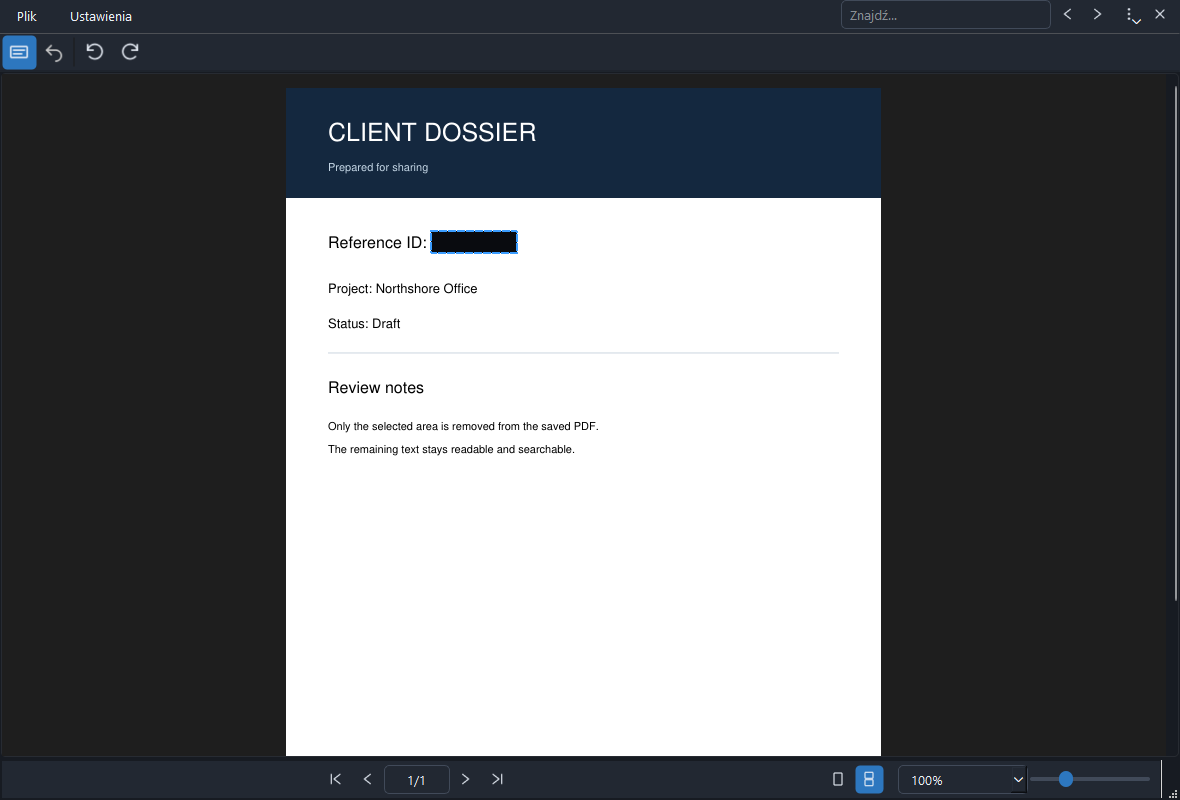
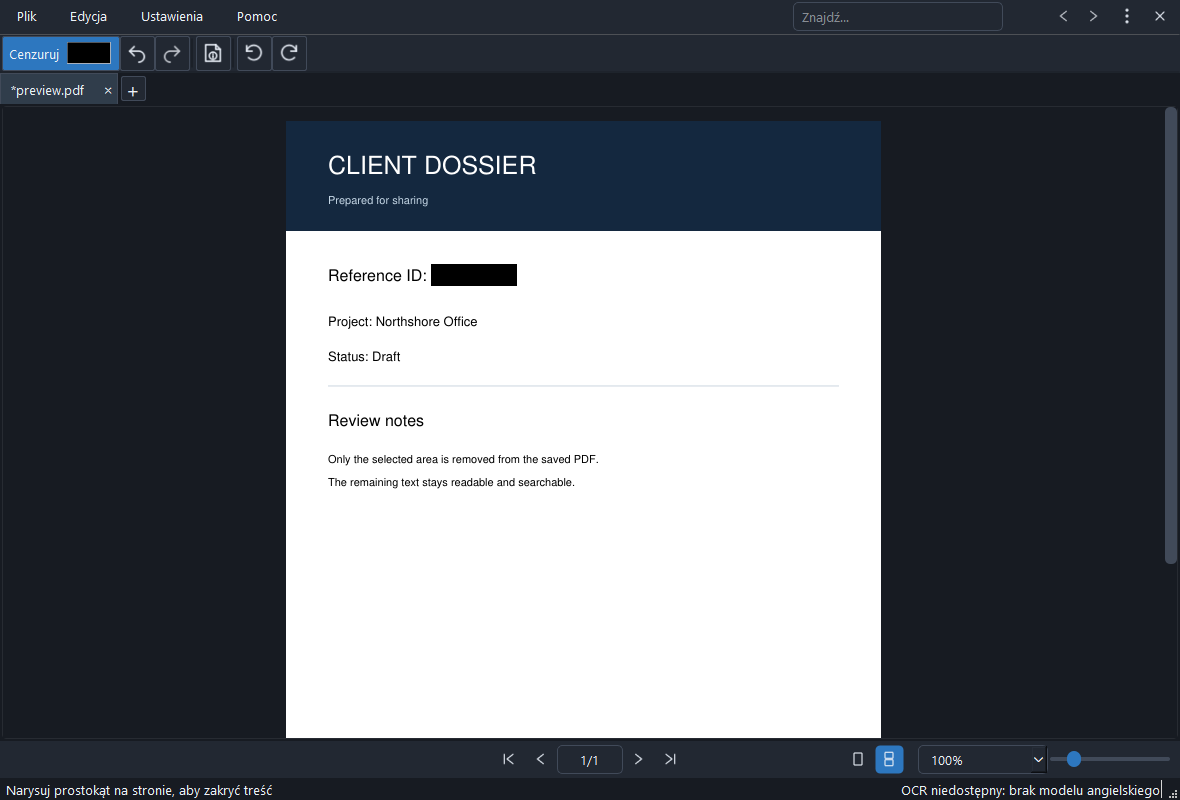
chore: prepare 1.0.1 release candidate

diff --git a/scripts/capture_preview.py b/scripts/capture_preview.py
@@ -1,18 +1,20 @@
-"""Create a reproducible README screenshot from a generated sample PDF."""
+"""Capture the current UI using a synthetic PDF and project-local settings."""
 
 from pathlib import Path
+import sys
+from unittest.mock import patch
 
 import pymupdf
-from PySide6.QtWidgets import QApplication
+from PySide6.QtCore import QSettings, Qt
+from PySide6.QtWidgets import QApplication, QStyleFactory
 
-from blurout_pdf.window import MainWindow
+PROJECT = Path(__file__).resolve().parents[1]
+sys.path.insert(0, str(PROJECT / "src"))
+
+from blurout_pdf import __version__, search, window as window_module
 
 
-def main() -> None:
-    output = Path("docs/assets/ui-preview.png")
-    output.parent.mkdir(parents=True, exist_ok=True)
-    sample = Path("build/preview.pdf")
-    sample.parent.mkdir(parents=True, exist_ok=True)
+def create_sample(sample: Path) -> None:
     with pymupdf.open() as pdf:
         page = pdf.new_page(width=595, height=842)
         page.draw_rect(pymupdf.Rect(0, 0, 595, 110), color=None, fill=(0.08, 0.16, 0.25))
@@ -27,21 +29,69 @@ def main() -> None:
         page.insert_text((42, 365), "The remaining text stays readable and searchable.", fontsize=11)
         pdf.save(sample)
 
+
+def save_capture(widget, output: Path) -> None:
+    """Keep published image dimensions stable across display scaling settings."""
+    image = widget.grab().toImage()
+    image = image.scaled(widget.size(), Qt.AspectRatioMode.IgnoreAspectRatio,
+                         Qt.TransformationMode.SmoothTransformation)
+    if not image.save(str(output)):
+        raise RuntimeError(f"Could not save {output}")
+
+
+def main() -> None:
+    output = PROJECT / "docs/assets"
+    output.mkdir(parents=True, exist_ok=True)
+    work = PROJECT / "build/readme-preview"
+    work.mkdir(parents=True, exist_ok=True)
+    sample = work / "preview.pdf"
+    create_sample(sample)
+    settings_directory = work / "settings"
+    settings_directory.mkdir(parents=True, exist_ok=True)
+    for scope in (QSettings.Scope.UserScope, QSettings.Scope.SystemScope):
+        QSettings.setPath(QSettings.Format.IniFormat, scope, str(settings_directory))
+
+    def preview_settings(organization: str, application: str) -> QSettings:
+        # The two-string constructor always uses NativeFormat on Windows.
+        settings = QSettings(QSettings.Format.IniFormat, QSettings.Scope.UserScope,
+                             organization, application)
+        assert settings.format() == QSettings.Format.IniFormat
+        assert Path(settings.fileName()).resolve().is_relative_to(settings_directory)
+        return settings
+
+    settings = preview_settings("BlurOut PDF", "BlurOut PDF")
+    settings.clear()
+    for key, value in (("language", "pl"), ("appearance", "dark"),
+                       ("redaction_style", "black"), ("ocr_language", "eng")):
+        settings.setValue(key, value)
+    settings.sync()
+    legacy_settings = preview_settings("Rectveil", "Rectveil")
+    legacy_settings.clear()
+    legacy_settings.sync()
+
     app = QApplication([])
-    window = MainWindow(str(sample))
-    window.language = "pl"
-    window._translate_ui()
-    window._set_zoom(1.0)
-    secret = window.document.page(0).search_for("QZ-4819-73")[0]
-    window.document.add_redaction(0, window.document.page_to_display(0, secret), "black")
-    window.redact_action.setChecked(True)
-    window.viewer.canvases[0].update()
-    window.resize(1180, 800)
-    window.show()
-    app.processEvents()
-    window.grab().save(str(output))
-    window.document.redactions.clear()
-    window.close()
+    app.setApplicationName("BlurOut PDF")
+    app.setApplicationVersion(__version__)
+    app.setOrganizationName("BlurOut PDF")
+    app.setStyle("windows11" if "windows11" in QStyleFactory.keys() else "Fusion")
+    # Reproduce the documented missing-OCR state without probing external model folders.
+    with patch.object(window_module, "QSettings", side_effect=preview_settings), \
+            patch.object(search, "_tessdata_directory", return_value=None), \
+            patch.object(window_module, "_tessdata_directory", return_value=None):
+        window = window_module.MainWindow(str(sample))
+        try:
+            window._set_zoom(1.0)
+            secret = window.document.page(0).search_for("QZ-4819-73")[0]
+            window._add_redaction(0, window.document.page_to_display(0, secret))
+            window.redact_action.setChecked(True)
+            window.resize(1180, 800)
+            window.show()
+            app.processEvents()
+            save_capture(window, output / "ui-preview.png")
+        finally:
+            window.document.redactions.clear()
+            window.close()
+    print(f"Captured BlurOut PDF {__version__} in {output.relative_to(PROJECT)}")
 
 
 if __name__ == "__main__":

diff --git a/src/blurout_pdf/_version.py b/src/blurout_pdf/_version.py
@@ -1,3 +1,3 @@
 """Authoritative application version for source and release builds."""
 
-VERSION = "1.0.0"
+VERSION = "1.0.1"

diff --git a/docs/ISSUES.md b/docs/ISSUES.md
@@ -90,6 +90,8 @@ This is the editable checklist for preparing the first public release. Work thro
 
 **Progress record:** 2026-10-12. The owner reports that upgrading 0.9.0 to 1.0.0 preserved the chosen language, dark appearance and redaction style, kept one app entry in the same directory, and left samples untouched. Re-running the 1.0.0 installer showed the localized already-installed message; version 1.0.0, settings and the single app entry remained unchanged. A 0.9.0 installation showed the correct About version and project link, and all synthetic samples opened. Cancelling the 1.0.0 installer while 0.9.0 had a pending redaction closed setup while leaving the app and selection intact; closing the app then warned about unsaved changes. Downgrade refusal preserved the single app entry, version and settings. Uninstall removed the app entry and files and preserved external samples but left an empty install directory; Open with cleanup could not be checked because the app was absent from the menu before uninstall. Windows Open with integration was not available and is tracked in Issue 8. Installer language selection follows Windows UI language (English is the fallback) and is described in [the manual lifecycle results](INSTALLER_LIFECYCLE_TEST.md). Remaining uninstall cleanup and lifecycle checks still need results.
 
+**1.0.1 implementation:** Commit `e15c89f` adds removal of the install directory only when empty and a Windows CI install/uninstall probe. The probe pre-creates that directory to reproduce the observed condition and checks actual registration cleanup. CI and owner results for the new candidate are pending; the earlier 1.0.0 observations do not accept 1.0.1.
+
 ## Issue 5 — Unify and verify release builds
 
 - [ ] **Issue 5 complete**
@@ -110,7 +112,9 @@ This is the editable checklist for preparing the first public release. Work thro
 - The built package contains the required notices, icon and supported file integrations, but no OCR models or private fixtures.
 - The candidate installer and its checksum are retained together for the acceptance pass.
 
-**Progress record:** 2026-10-12. Commit `6a1e3be` unifies local and CI packaging, controls the Windows dependency versions, verifies the release payload and generates `SHA256.txt`. Local verification passed (48 tests passed, 1 skipped; installer payload and checksum verified). GitHub Actions run [38152420931](https://github.com/janmadrzyk/blur-out-pdf/actions/runs/38152420931) passed on `main` and retained the Windows installer artifact. Keep Issue 5 open until its declared dependency, Issue 4, is complete; then confirm the CI artifact is the candidate used for Issue 6.
+**Progress record:** 2026-10-12. Commit `6a1e3be` unified local and CI packaging for the earlier 1.0.0 candidate, controlled Windows dependency versions, verified its payload and generated `SHA256.txt`. Local verification passed (48 tests passed, 1 skipped), and GitHub Actions run [38152420931](https://github.com/janmadrzyk/blur-out-pdf/actions/runs/38152420931) passed on `main`. The current candidate is 1.0.1 and needs a fresh CI build, checksum and acceptance of that exact artifact after the Issue 4 fixes.
+
+**1.0.1 local check:** 2026-10-12. The full source suite passed (78 passed, 1 skipped). A local PyInstaller bundle built with executable file/product version 1.0.1; notice preparation and bundled Qt import checks passed. The installer and checksum still require the new CI build.
 
 ## Issue 6 — Accept the release candidate
 
@@ -133,7 +137,8 @@ This is the editable checklist for preparing the first public release. Work thro
 - The candidate is explicitly accepted for publication; its checksum is final.
 
 **Completion record:** _Commit / evidence / date to be added._
-## Issue 7 — Publish version 1.0.0 on GitHub
+
+## Issue 7 — Publish version 1.0.1 on GitHub
 
 - [ ] **Issue 7 complete**
 
@@ -142,17 +147,17 @@ This is the editable checklist for preparing the first public release. Work thro
 **Work:**
 
 1. Confirm the public repository has the audited files, license, README, screenshots and changelog.
-2. Tag the accepted commit `v1.0.0` and create a GitHub Release with concise release notes.
+2. Tag the accepted commit `v1.0.1` and create a GitHub Release with concise release notes.
 3. Attach the exact accepted installer and its SHA-256 checksum, then verify the public download and checksum.
 
 **Definition of Done:**
 
-- The `v1.0.0` tag points to the accepted source commit and the release assets match the tested checksum.
+- The `v1.0.1` tag points to the accepted source commit and the release assets match the tested checksum.
 - Public README, license, notices, screenshots and installation instructions render correctly.
 - The GitHub Release is accessible and its installer can be downloaded and verified against the published checksum.
 - This checkbox is marked complete only after publication succeeds and the release URL is recorded below.
 
-**Progress record:** 2026-10-12. The public source repository is available at [janmadrzyk/blur-out-pdf](https://github.com/janmadrzyk/blur-out-pdf), and the updated repository audit is recorded in `REPOSITORY_AUDIT.md`. No 1.0.0 release has been created. Tagging and release publication wait for Issue 6 acceptance and the owner's release approval.
+**Progress record:** 2026-10-12. The public source repository is available at [janmadrzyk/blur-out-pdf](https://github.com/janmadrzyk/blur-out-pdf), and the updated repository audit is recorded in `REPOSITORY_AUDIT.md`. The 1.0.0 candidate was not publicly released; 1.0.1 is the current target. Tagging and release publication wait for Issue 6 acceptance and the owner's release approval.
 
 ## Issue 8 — Restore Windows Open with integration
 
@@ -173,6 +178,8 @@ This is the editable checklist for preparing the first public release. Work thro
 
 **Completion record:** _Commit / evidence / date to be added._
 
+**Implementation progress:** 2026-10-12. Commit `93b282a` writes real named empty `REG_SZ` OpenWithProgids values for all eight supported extensions, adds the application display name and launch command, and strengthens release validation. Focused checks passed (27 passed); the full suite passed (78 passed, 1 skipped). Actual Windows registration and Explorer behavior remain to be checked on the 1.0.1 candidate.
+
 ## Issue 9 — Show the selection marquee in the file picker
 
 - [ ] **Issue 9 complete**
@@ -190,3 +197,5 @@ This is the editable checklist for preparing the first public release. Work thro
 - The behavior is manually checked on Windows.
 
 **Completion record:** _Commit / evidence / date to be added._
+
+**Implementation progress:** 2026-10-12. Commit `b03777a` makes the selection marquee visible in both file picker views. Native Windows rendering showed the rectangle in light and dark themes; UI checks passed (17 passed), and the full suite passed (78 passed, 1 skipped). Owner verification of the 1.0.1 candidate remains pending.

diff --git a/docs/INSTALLER_LIFECYCLE_TEST.md b/docs/INSTALLER_LIFECYCLE_TEST.md
@@ -1,16 +1,20 @@
 # Installer lifecycle check on a clean Windows machine
 
-The `packaging/build_lifecycle_fixtures.ps1` script builds a test-only `0.9.0` installer from the current source, alongside the real `1.0.0` candidate. `0.9.0` is a synthetic predecessor for checking installer behavior, not a historical release. The script prints a folder containing both installers, `SHA256.txt`, and synthetic `sample.pdf`, `sample.jpg`, `sample.jpeg`, `sample.png`, `sample.tif`, `sample.tiff`, `sample.bmp`, and `sample.webp`. Never publish the `TEST-ONLY` installer.
+The `packaging/build_lifecycle_fixtures.ps1` script builds test-only `0.9.0` and `1.0.0` installers from the current source, alongside the real candidate identified by `src/blurout_pdf/_version.py` (currently `1.0.1`). These are synthetic predecessors for checking installer behavior, not historical releases or copies of earlier candidate binaries. The script prints a folder containing all three installers, `SHA256.txt`, and synthetic `sample.pdf`, `sample.jpg`, `sample.jpeg`, `sample.png`, `sample.tif`, `sample.tiff`, `sample.bmp`, and `sample.webp`. Never publish the `TEST-ONLY` installers.
 
 The installer lists English first and Polish second in `packaging/windows.iss`. On a first install, it uses Inno Setup's default language detection, which follows the Windows UI language; if that language is unsupported, English is selected as the first listed language. A language selection dialog lets the user override the detected language. Thus Polish Windows selects Polish, while English or unsupported-language Windows selects English on first install. Inno Setup's default `UsePreviousLanguage=yes` setting means later runs may use the language selected during the previous installation. See [Inno Setup's language selection rules](https://jrsoftware.org/ishelp/topic_languagessection.htm) and [UsePreviousLanguage](https://jrsoftware.org/ishelp/topic_setup_usepreviouslanguage.htm).
 
-Run the following from the project root after building the 1.0.0 installer:
+Run the following from the project root after building the current candidate installer:
 
 ```powershell
 .\packaging\build_lifecycle_fixtures.ps1 -InnoCompiler (Join-Path $env:LOCALAPPDATA "Programs\Inno Setup 6\ISCC.exe")
 ```
 
 Copy the files from the printed `installers` folder to a clean Windows VM or snapshot. Use the same Windows user throughout. Check the SHA-256 values before testing. Record the Windows version, VM snapshot, installer hashes, date, and the results below. A real user document is unnecessary.
+
+## Earlier 1.0.0 candidate results
+
+These observations apply to the previous candidate. They do not accept the new 1.0.1 artifact.
 
 | Path | Steps | Expected result | Result |
 | --- | --- | --- | --- |
@@ -26,3 +30,19 @@ The same-version and downgrade messages were not repeated interactively in both 
 Do not mark Issue 4 complete until all rows have recorded observations from the clean environment. Any failure needs a fix, a new installer build, and a repeat of the affected rows.
 
 Owner-reported results above are recorded separately from unverified expectations. The 0.9.0 app launch, About version/link, opening each sample, running-app cancellation, upgrade with preference preservation, the same-version message, and downgrade refusal with preserved version/preferences are confirmed. Uninstall removed the app entry and files but left an empty install directory; Open with cleanup could not be checked because the app was absent from the menu beforehand. Windows Open with integration failed and is tracked in Issue 8. Remaining lifecycle checks still need a result.
+
+## Current 1.0.1 candidate checks
+
+Use the exact CI-built `BlurOutPDF-Setup-1.0.1.exe` and verify its checksum before running these checks. Record the candidate commit, CI run, hash and clean Windows environment with the results. Test-only 1.0.0 fixtures exercise the version gate; also check upgrade from an actual earlier 1.0.0 candidate installation when one is available.
+
+| Path | Steps and expected result | Result |
+| --- | --- | --- |
+| Fresh install and Open with | Install 1.0.1 on a clean snapshot. Confirm one Installed apps entry and About version 1.0.1. Open each synthetic PDF/raster sample through **Open with → Choose another app → BlurOut PDF**; existing default viewers remain selected. | Pending. |
+| Running app | Open a synthetic sample with a pending redaction in the predecessor app. Start 1.0.1 setup and cancel the close-app prompt; the app, version and pending selection remain available. | Pending. |
+| Upgrade from 0.9.0 and 1.0.0 | On separate snapshots, install each predecessor, choose language, appearance and cover style, then install 1.0.1. Confirm one app entry, About version 1.0.1, preserved settings, untouched samples and working Open with entries. | Pending. |
+| Same version | Run 1.0.1 setup again. Confirm the already-installed message, preserved settings and one app entry. | Pending. |
+| Downgrade | Run each TEST-ONLY predecessor installer after 1.0.1 is installed. Confirm refusal while version 1.0.1 and settings remain intact. | Pending. |
+| File picker selection | In the 1.0.1 app, choose **Open**, drag across synthetic files and confirm a visible selection marquee, the intended selection, and normal click/multi-select behavior. | Pending. |
+| Uninstall | Uninstall 1.0.1. Confirm the app entry and app-owned files/registrations disappear, including all Open with entries. Confirm external samples remain. Check whether the install directory is removed or remains empty and record the outcome. | Pending. |
+
+Complete these observations and the application acceptance checks in Issue 6 before tagging or publishing the candidate.

diff --git a/README.md b/README.md
@@ -4,7 +4,7 @@ BlurOut PDF is a small, offline Windows document viewer for PDFs and raster imag
 
 ![BlurOut PDF showing a pending redaction in dark mode](docs/assets/ui-preview.png)
 
-The screenshot uses a synthetic PDF generated by [the preview script](scripts/capture_preview.py). No user document is included in the repository.
+The screenshot shows the current 1.0.1 interface using a synthetic PDF generated by [the preview script](scripts/capture_preview.py). The script uses isolated settings inside `build/readme-preview` and forces dark mode. No user document is included in the repository.
 
 ## Current features
 
@@ -73,9 +73,9 @@ py -3.12 -m venv .venv
 .\packaging\build.ps1
 ```
 
-If Inno Setup is installed in a different location, pass its compiler path with `-InnoCompiler`. The build produces `dist\BlurOutPDF-Setup-1.0.0.exe` and `dist\SHA256.txt`; keep these two files together. Verify a copied installer with `Get-FileHash dist\BlurOutPDF-Setup-1.0.0.exe -Algorithm SHA256` and compare its hash with `dist\SHA256.txt`. The GitHub Windows workflow runs the same tests and build script and retains both files as one artifact.
+If Inno Setup is installed in a different location, pass its compiler path with `-InnoCompiler`. The build produces `dist\BlurOutPDF-Setup-1.0.1.exe` and `dist\SHA256.txt`; keep these two files together. Verify a copied installer with `Get-FileHash dist\BlurOutPDF-Setup-1.0.1.exe -Algorithm SHA256` and compare its hash with `dist\SHA256.txt`. The GitHub Windows workflow runs the same tests and build script and retains both files as one artifact.
 
-The installer registers BlurOut PDF as an **Open with** option for PDFs and all supported raster formats without taking over their default viewer. The executable, installer and application window use the transparent icon derived from the supplied draft. The version comes from `src/blurout_pdf/_version.py` and is passed to both Windows build tools. See the [1.0.0 release notes](docs/RELEASE_NOTES_1.0.0.md) and [changelog](CHANGELOG.md).
+The installer registers BlurOut PDF as an **Open with** option for PDFs and all supported raster formats without taking over their default viewer. The executable, installer and application window use the transparent icon derived from the supplied draft. The version comes from `src/blurout_pdf/_version.py` and is passed to both Windows build tools. See the [1.0.1 release notes](docs/RELEASE_NOTES_1.0.1.md) and [changelog](CHANGELOG.md). Version 1.0.1 is the current candidate so installations of the earlier 1.0.0 candidate can upgrade; 1.0.0 was not publicly released. The new installer still requires clean-Windows acceptance before publication.
 
 ## Project layout
 

diff --git a/CHANGELOG.md b/CHANGELOG.md
@@ -1,8 +1,19 @@
 # Changelog
 
+## 1.0.1 — release candidate
+
+This candidate supersedes the unpublished 1.0.0 candidate. The patch version allows existing 1.0.0 test installations to upgrade through the installer version gate. No 1.0.0 software release was published.
+
+### Changes prepared for verification
+
+- Restore the Windows **Open with** option for PDFs and supported raster formats.
+- Show the dragged selection marquee in the document and image file picker.
+
+Automated and manual verification of these changes is tracked in [the release checklist](docs/ISSUES.md). Clean-Windows installer checks, including upgrade from the 1.0.0 candidate and uninstall cleanup, must be repeated on the exact 1.0.1 CI artifact. Publish `v1.0.1` only after that artifact and its checksum are accepted.
+
 ## 1.0.0 — release candidate
 
-This version is being prepared for its first public release. The source repository is public; the release tag and installer have not yet been published.
+This earlier candidate was not publicly released and is superseded by 1.0.1. The source repository is public; no 1.0.0 release tag or installer release was published.
 
 ### Included
 
@@ -19,8 +30,8 @@ This version is being prepared for its first public release. The source reposito
 - PDFs with complex interactive features or malformed structure need extra review before sensitive disclosure. Inspect every saved result independently.
 - The public GitHub repository is available at [janmadrzyk/blur-out-pdf](https://github.com/janmadrzyk/blur-out-pdf).
 
-### Still to complete before the first software release
+### Acceptance work carried forward to 1.0.1
 
 - Complete the installer lifecycle checks, including fresh install, same-version behavior, running-app handling and uninstall (Issue 4).
 - Accept the exact CI candidate in a clean Windows environment and complete the application checks (Issues 5–6).
-- Tag `v1.0.0` and publish the accepted installer with its verified checksum (Issue 7).
+- Tag the accepted current candidate and publish its installer with the verified checksum (Issue 7); the current target is `v1.0.1`.

diff --git a/docs/SPEC.md b/docs/SPEC.md
@@ -43,7 +43,7 @@ Python 3.11+, PySide6, PyMuPDF and Pillow. PyInstaller builds a Windows app dire
 
 ## Release 1.0 plan and decisions
 
-The first public release targets version **1.0.0**. Version information should have one authoritative source and appear consistently in the application, Windows executable metadata, installer, documentation, changelog and Git tag `v1.0.0`. The version and license must be visible from an About dialog. This section defines the target release; it does not imply that version 1.0.0 has already shipped.
+The first public release currently targets version **1.0.1**, superseding the unpublished 1.0.0 candidate and allowing its test installations to upgrade. Version information should have one authoritative source and appear consistently in the application, Windows executable metadata, installer, documentation, changelog and Git tag `v1.0.1`. The version and license must be visible from an About dialog. This section defines the target release; it does not imply that either candidate has already shipped.
 
 OCR remains optional and uses compatible language data already available on the user's computer. The installer will not bundle or download OCR models. Search of text embedded in a PDF remains available without OCR; searching text in scanned pages depends on the local OCR engine and the selected language data. Missing OCR support should be reported through the existing bottom status-bar message, without interrupting ordinary document reading or embedded-text search. The README must explain this distinction, local dependency and language selection clearly.
 

diff --git a/docs/RELEASE_NOTES_1.0.1.md b/docs/RELEASE_NOTES_1.0.1.md
@@ -1,0 +1,11 @@
+# BlurOut PDF 1.0.1 — release notes draft
+
+BlurOut PDF is a local Windows viewer for PDFs and raster images. It lets you mark rectangular areas and save a rewritten document or image with those areas covered. PDF search, page export, raster conversion, metadata editing, Polish and English interfaces, and light/dark appearance are included.
+
+Version 1.0.1 supersedes the unpublished 1.0.0 candidate and permits an in-place upgrade from that test version. This candidate prepares fixes for missing Windows **Open with** integration and the invisible dragged selection marquee in the file picker. Their verification status is recorded in [the release checklist](ISSUES.md).
+
+The black cover is the safer choice for sensitive content. Blurred covers can retain visual clues. Check every saved file, including repeated content elsewhere in a document, before sharing it.
+
+Embedded PDF text search works without OCR. Search on scanned pages requires compatible OCR language data already available on the computer; the installer does not provide or download models.
+
+The [public GitHub repository](https://github.com/janmadrzyk/blur-out-pdf) is available. This installer remains a candidate until clean-Windows lifecycle and application acceptance checks pass for the exact CI artifact and its checksum. No public 1.0.0 software release was published.

diff --git a/docs/RELEASE_NOTES_1.0.0.md b/docs/RELEASE_NOTES_1.0.0.md
@@ -1,5 +1,7 @@
 # BlurOut PDF 1.0.0 — release notes draft
 
+This unpublished candidate has been superseded by [1.0.1](RELEASE_NOTES_1.0.1.md). These notes preserve the original candidate scope.
+
 BlurOut PDF is a local Windows viewer for PDFs and raster images. It lets you mark rectangular areas and save a rewritten document or image with those areas covered. PDF search, page export, raster conversion, metadata editing, two UI languages and light/dark appearance are included.
 
 The black cover is the safer choice for sensitive content. Blurred covers can retain visual clues. Check every saved file, including repeated content elsewhere in a document, before sharing it.
